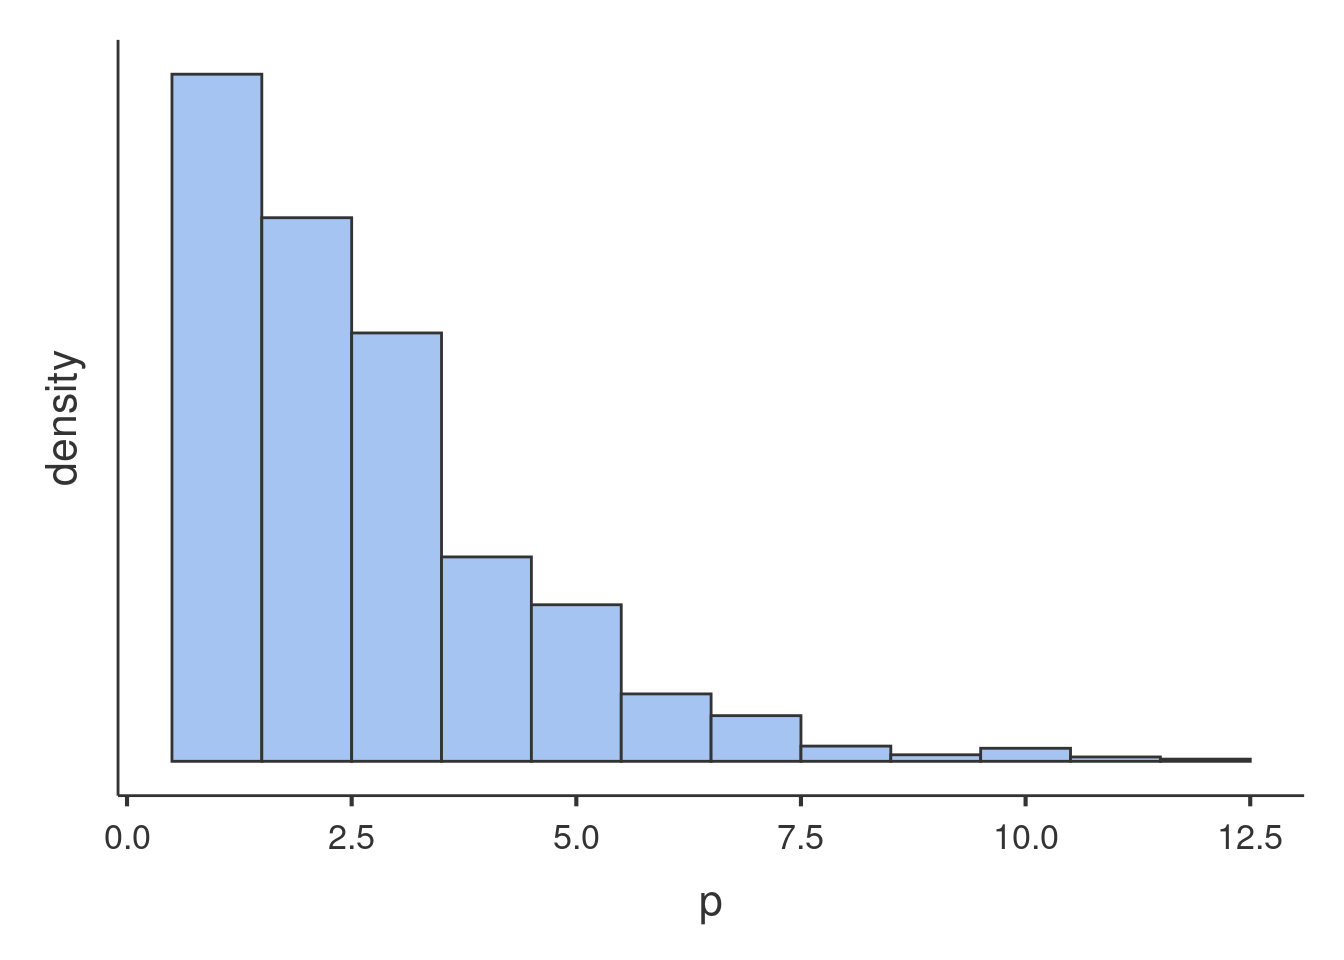
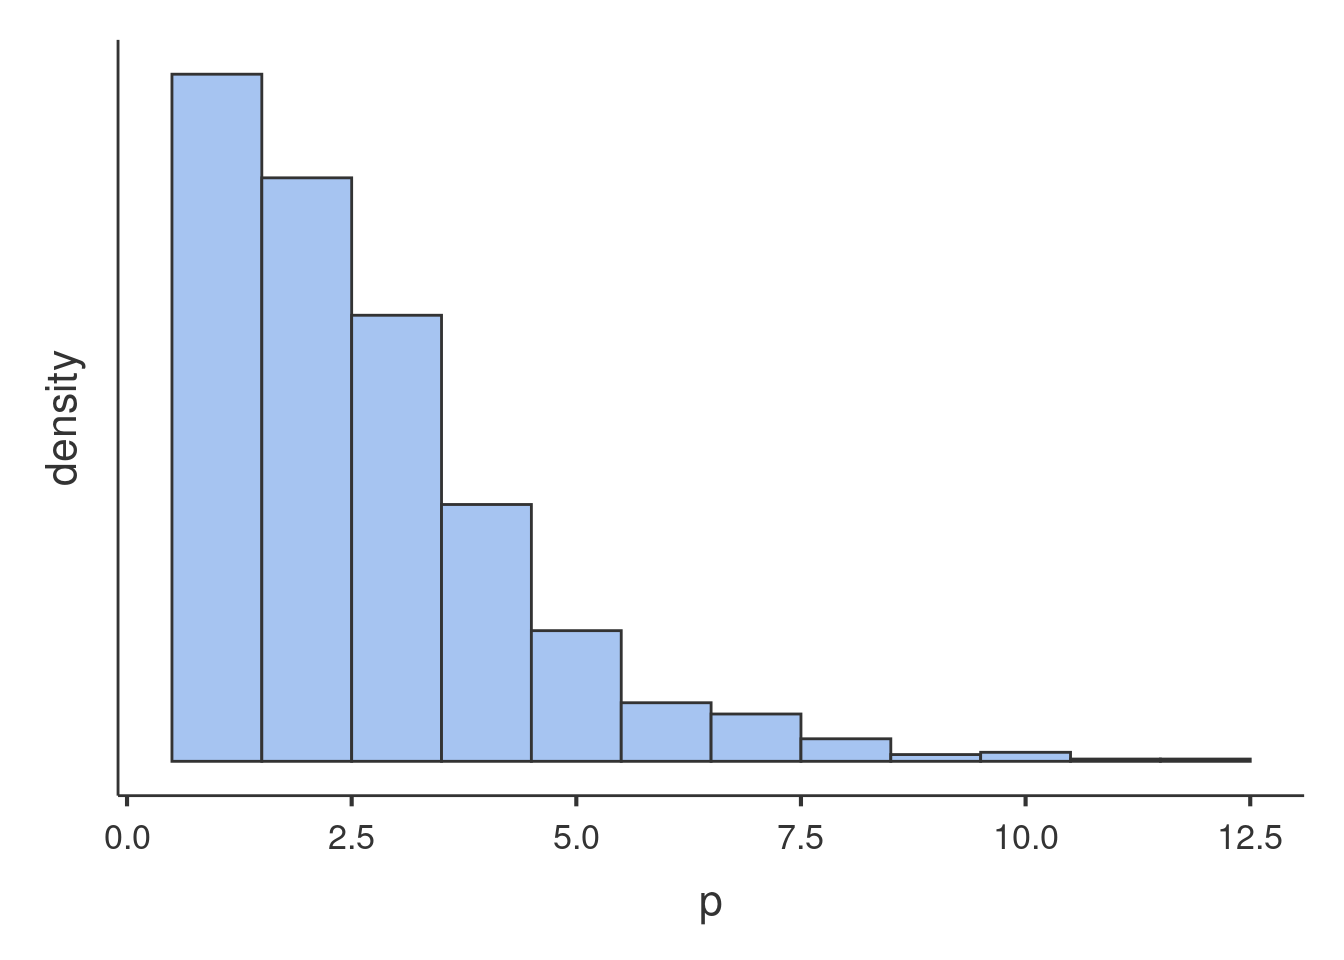
updates

diff --git a/vignettes.html b/vignettes.html
@@ -368,28 +368,6 @@ div.tocify {
 
 <p><span class="version"> <span class="versiontitle"> GALMj version ≥ </span> 2.4.0 </span> # Introduction</p>
 <p>GAMLj module can be installed and used in R as a standard R packages. Please check the R help for details. Here we provide some appliactions of the package in R.</p>
-<pre class="r"><code>print(list.files())</code></pre>
-<pre><code>##  [1] &quot;_site.yml&quot;                   &quot;about.html&quot;                  &quot;about.Rmd&quot;                   &quot;commons&quot;                    
-##  [5] &quot;details&quot;                     &quot;details_glm_effectsize.html&quot; &quot;details_glm_effectsize.Rmd&quot;  &quot;docssource&quot;                 
-##  [9] &quot;examples&quot;                    &quot;examples.html&quot;               &quot;examples.Rmd&quot;                &quot;ganalytics.txt&quot;             
-## [13] &quot;glm&quot;                         &quot;glm_example1.html&quot;           &quot;glm_example1.Rmd&quot;            &quot;glm_example2.html&quot;          
-## [17] &quot;glm_example2.Rmd&quot;            &quot;glm.html&quot;                    &quot;glm.Rmd&quot;                     &quot;glmmixed_example1.html&quot;     
-## [21] &quot;glmmixed_example1.Rmd&quot;       &quot;glmmixed_example2_files&quot;     &quot;glmmixed_example2.html&quot;      &quot;glmmixed_example2.Rmd&quot;      
-## [25] &quot;gzlm&quot;                        &quot;gzlm_example1.html&quot;          &quot;gzlm_example1.Rmd&quot;           &quot;gzlm_example2.html&quot;         
-## [29] &quot;gzlm_example2.Rmd&quot;           &quot;gzlm_example3.html&quot;          &quot;gzlm_example3.Rmd&quot;           &quot;gzlm_example4.html&quot;         
-## [33] &quot;gzlm_example4.Rmd&quot;           &quot;gzlm_specs.html&quot;             &quot;gzlm_specs.Rmd&quot;              &quot;gzlm.html&quot;                  
-## [37] &quot;gzlm.Rmd&quot;                    &quot;gzlmmixed&quot;                   &quot;gzlmmixed.html&quot;              &quot;gzlmmixed.Rmd&quot;              
-## [41] &quot;index.html&quot;                  &quot;index.Rmd&quot;                   &quot;jamovi.css&quot;                  &quot;mixed&quot;                      
-## [45] &quot;mixed_example_igm_files&quot;     &quot;mixed_example_igm.html&quot;      &quot;mixed_example_igm.Rmd&quot;       &quot;mixed_example1.html&quot;        
-## [49] &quot;mixed_example1.Rmd&quot;          &quot;mixed_example2.html&quot;         &quot;mixed_example2.Rmd&quot;          &quot;mixed_example3.html&quot;        
-## [53] &quot;mixed_example3.Rmd&quot;          &quot;mixed_specs.html&quot;            &quot;mixed_specs.Rmd&quot;             &quot;mixed.html&quot;                 
-## [57] &quot;mixed.Rmd&quot;                   &quot;pics&quot;                        &quot;posthoc_specs.html&quot;          &quot;posthoc_specs.Rmd&quot;          
-## [61] &quot;release_notes.html&quot;          &quot;release_notes.Rmd&quot;           &quot;rosetta&quot;                     &quot;rosetta_contrasts.html&quot;     
-## [65] &quot;rosetta_contrasts.Rmd&quot;       &quot;rosetta_gzlmmixed1.html&quot;     &quot;rosetta_gzlmmixed1.Rmd&quot;      &quot;rosetta_moderation_files&quot;   
-## [69] &quot;rosetta_moderation.html&quot;     &quot;rosetta_moderation.Rmd&quot;      &quot;rosetta.html&quot;                &quot;rosetta.Rmd&quot;                
-## [73] &quot;site_libs&quot;                   &quot;style.css&quot;                   &quot;troubles.html&quot;               &quot;troubles.Rmd&quot;               
-## [77] &quot;vignettes_gamljGLM.html&quot;     &quot;vignettes_gamljGLM.Rmd&quot;      &quot;vignettes.Rmd&quot;</code></pre>
-<pre class="r"><code>get_vignettes()</code></pre>
 <h1>
 Comments?
 </h1>

diff --git a/glmmixed_example2.html b/glmmixed_example2.html
@@ -383,7 +383,7 @@ div.tocify {
 <p><img src="glmmixed_example2_files/figure-html/unnamed-chunk-2-1.png" width="672" /></p>
 <p>Glancing at the histogram makes it clear that the distribution is not normal, but it roughly resembles the Poisson distribution. Here is an example of Poisson distribution with equivalent mean.</p>
 <p><img src="glmmixed_example2_files/figure-html/unnamed-chunk-3-1.png" width="672" /></p>
-<p>We can see that the shape of our distribution is not qualitatively very different as compared with a theoretical Poisson distribution, so a Generalized Linear Model with Poisson distribition may work. However, we can check wheather our distribution is in line with the features of the Poisson dist by checking its mean and variance. The Poisson distribution has variance equal to the mean, in fact the simulated distribution in the histogram has <span class="math inline">\(\bar{x}=1.672\)</span> and <span class="math inline">\(s^2=1.576\)</span>. The <code>art</code> variable distribution has <span class="math inline">\(\bar{x}=1.693\)</span> and <span class="math inline">\(s^2=3.71\)</span>, with a ratio variance/mean of 2.191, which does not really qualify for Poisson dist. This looks like a case of <strong>overdispersion</strong>, <a href="http://bbolker.github.io/mixedmodels-misc/glmmFAQ.html#overdispersion">cf. here for details</a>. We will than consider a Negative Binomial model to account for possible overdispersion.</p>
+<p>We can see that the shape of our distribution is not qualitatively very different as compared with a theoretical Poisson distribution, so a Generalized Linear Model with Poisson distribition may work. However, we can check wheather our distribution is in line with the features of the Poisson dist by checking its mean and variance. The Poisson distribution has variance equal to the mean, in fact the simulated distribution in the histogram has <span class="math inline">\(\bar{x}=1.597\)</span> and <span class="math inline">\(s^2=1.5\)</span>. The <code>art</code> variable distribution has <span class="math inline">\(\bar{x}=1.693\)</span> and <span class="math inline">\(s^2=3.71\)</span>, with a ratio variance/mean of 2.191, which does not really qualify for Poisson dist. This looks like a case of <strong>overdispersion</strong>, <a href="http://bbolker.github.io/mixedmodels-misc/glmmFAQ.html#overdispersion">cf. here for details</a>. We will than consider a Negative Binomial model to account for possible overdispersion.</p>
 <p>An example of Negative Binomial distribution with equivalent mean and variance is here.</p>
 <p><img src="glmmixed_example2_files/figure-html/unnamed-chunk-4-1.png" width="672" /></p>
 <p>The second issue one needs to deal with is the structure of the data. We have seen that the students are not a random sample of students drawn independently one each other, but they are grouped by the program they are enrolled in. There are 83 programs, in each program there are on average 11 students. Because students in the same program may be more similar one each other than across programs, <code>programs</code> may cluster the scores of the dependent variable and create dependency in the data. To take dependency into the account, we will use a random intercepts model estimated with a Generalized Mixed Model.</p>
